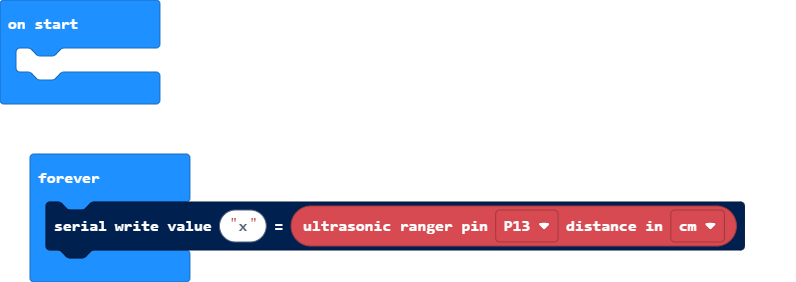
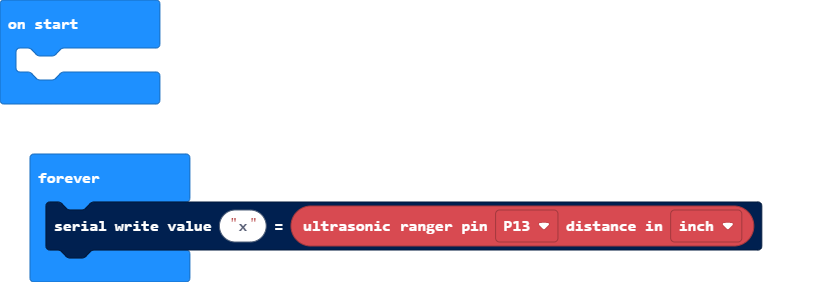
Update main.blocks, _locales/pt-BR/hackbit-jsdoc-strings.json, main.ts

diff --git a/main.ts b/main.ts
@@ -1,3 +1,3 @@
 basic.forever(function () {
-    serial.writeValue("x", hackbit.measureDistanceCentimeter(DigitalPin.P13, hackbit.DistanceUnit.cm))
+    serial.writeValue("x", hackbit.measureDistanceCentimeter(DigitalPin.P13, hackbit.DistanceUnit.inch))
 })
